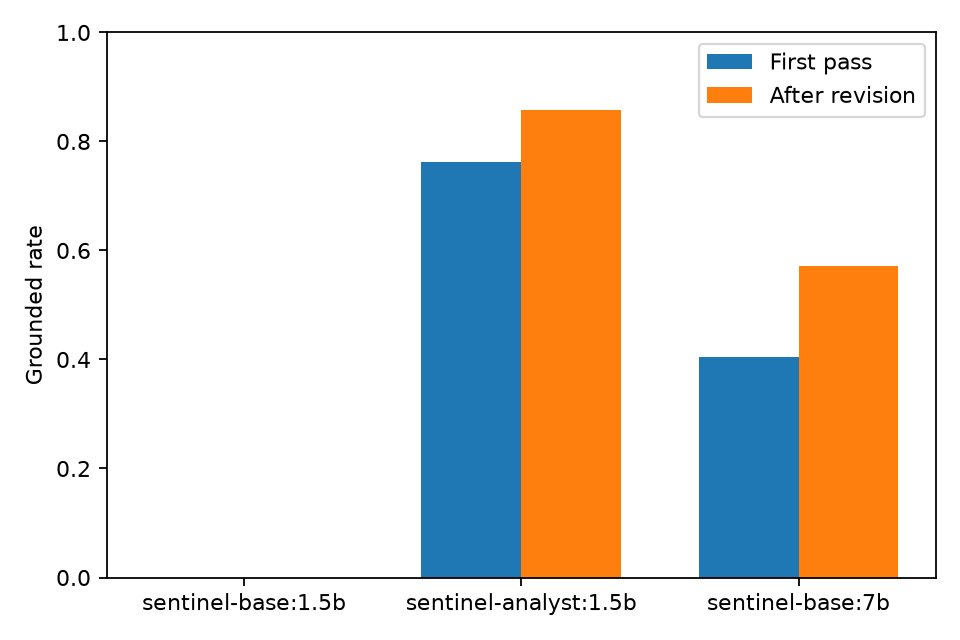
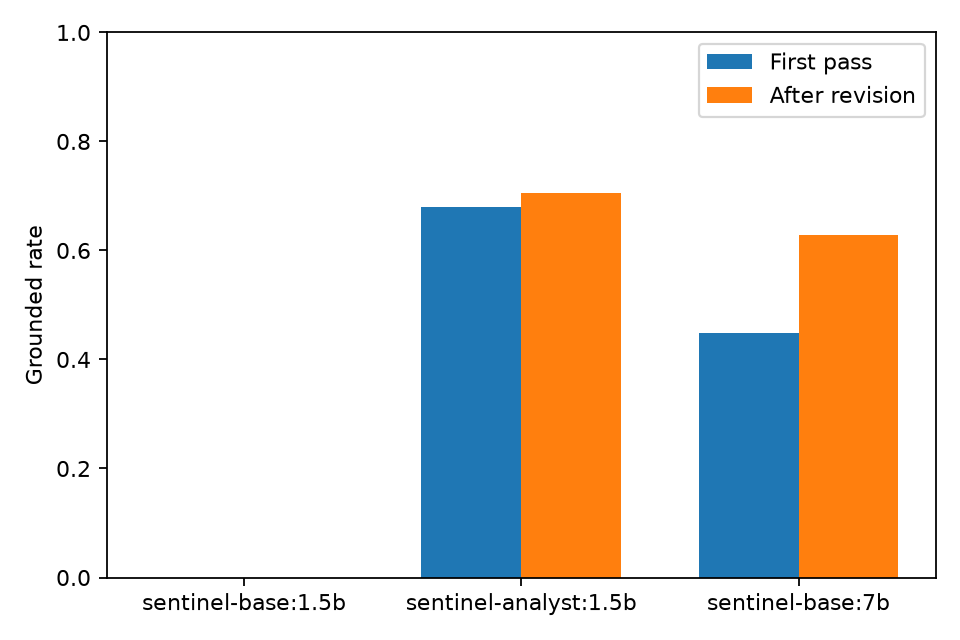
feat(training): train on more data with evidence-weighted verdicts; refresh comparison on 78 flags

Changed region(s): [[0.4375, 0.1562, 0.6562, 0.3438], [0.8125, 0.3438, 0.9375, 0.4375], [0.7188, 0.5, 0.8438, 0.5625]]

diff --git a/training/build_dataset.py b/training/build_dataset.py
@@ -151,6 +151,14 @@ def _claims(
             "signal.amount_to_p95",
             "stats.p95_amount",
         )
+    elif "p95_amount" in stats and ratio >= 1:
+        add(
+            "amount_raised",
+            f"The amount is {ratio:.1f}x the account's prior 95th percentile of "
+            f"{_money(stats['p95_amount'])}: above normal for this account, but not extreme.",
+            "signal.amount_to_p95",
+            "stats.p95_amount",
+        )
     elif "p95_amount" in stats and signal["account_age"] >= 5:
         add(
             "amount_normal",
@@ -159,6 +167,14 @@ def _claims(
             f"{_money(stats['p95_amount'])}.",
             "stats.median_amount",
             "stats.p95_amount",
+        )
+    if signal["account_age"] >= 1:
+        add(
+            "activity",
+            f"Earlier transactions on the account: {_number(signal['count_1h'])} in the hour "
+            f"before this one and {_number(signal['count_24h'])} in the day before.",
+            "signal.count_1h",
+            "signal.count_24h",
         )
     if signal["count_10m"] >= 3:
         add(
@@ -263,12 +279,20 @@ def build_report(
     signals = [PHRASES[kind] for kind in kinds if kind in PHRASES]
     tx = refs[flagged]
     lead = f"{_money(tx['amount'])} {tx['currency']} at {tx['untrusted_text']['merchant_name']}"
-    reasons = "; ".join(signals[:3]) if signals else "a model score with no single clear cause"
-    if pattern:
+    reasons = "Main signals: " + "; ".join(signals[:3]) if signals else "No signal stands out"
+    strength = len(SUSPICIOUS & set(kinds))
+    if pattern and strength >= 2:
         risk, action = "high", "block_and_contact"
-        if len(SUSPICIOUS & set(kinds)) <= 1:
-            risk, action = "medium", "review"
         verdict = "The combination is consistent with fraud and should not be approved unchecked."
+    elif pattern:
+        risk, action = "medium", "review"
+        verdict = (
+            "One signal stands out while the rest of the account's behaviour looks ordinary, "
+            "so this needs a person to look before it is cleared."
+            if strength
+            else "The detectors scored it on a mix of small deviations, so this needs a person "
+            "to look before it is cleared."
+        )
     elif scenario in ("travel", "large_purchase", "busy_day", "new_device"):
         risk, action = "low", _pick(rng, "approve", "approve", "review")
         verdict = (
@@ -288,7 +312,7 @@ def build_report(
         "were not available.",
     )
     return {
-        "summary": f"Flagged: {lead}. Main signals: {reasons}. {verdict}",
+        "summary": f"Flagged: {lead}. {reasons}. {verdict}",
         "evidence": [item for _, item in claims[:6]],
         "risk_level": risk,
         "recommended_action": action,
@@ -359,7 +383,7 @@ def build(out: Path, accounts: int, seed_value: int, artifact: str) -> dict[str,
             for flag in session.scalars(select(Flag).order_by(Flag.id)):
                 transaction = session.get(Transaction, flag.transaction_id)
                 label = labels[transaction.id]
-                if rng.random() < 0.12:
+                if rng.random() < 0.15:
                     injected = rng.choice(INJECTIONS)
                     if rng.random() < 0.5:
                         transaction.memo = injected

diff --git a/training/README.md b/training/README.md
@@ -4,22 +4,23 @@ A LoRA fine-tune of [Qwen2.5-1.5B-Instruct](https://huggingface.co/Qwen/Qwen2.5-
 
 ## Why fine-tune
 
-The stock 1.5B model cannot do the task: it sends invented arguments to the first tool and never produces a report. The stock 7B model can, but slowly, and it often cites the wrong record. The fine-tuned 1.5B is more accurate than the 7B at about a fifth of the latency. Numbers are in the [project README](../README.md#analyst-reports).
+The stock 1.5B model cannot do the task: it sends invented arguments to the first tool and never produces a report. The stock 7B model can, but slowly, and it often cites the wrong record. The fine-tuned 1.5B gets more reports right on the first attempt than the 7B, in under a quarter of the time. Numbers are in the [project README](../README.md#analyst-reports).
 
 ## Training data
 
 `build_dataset.py` generates the data; nothing is hand-written and no real customer data is involved.
 
-- Source: the `finetune` split of the synthetic generator (300 accounts, seed 1337). It shares no accounts with the `eval` split used for every reported number.
+- Source: the `finetune` split of the synthetic generator (600 accounts, seed 1337). It shares no accounts with the `eval` split used for every reported number.
 - Each example is a complete conversation: system prompt, tool calls, the real tool results, and a target report.
-- Target reports are assembled from the tool results, so each number, date, country, device, and merchant in them is copied from a cited record. Every target is run through the same grounding checker used at inference, and rejected if it fails (54 of 592 were).
-- 12% of examples carry instruction-like text in a merchant name or memo, with a target that reports it as data. The strings differ from the ones used in evaluation.
+- The verdict in each target follows the strength of the evidence gathered: two or more independent signals read as likely fraud, one as needing a person's review, none as thin.
+- Target reports are assembled from the tool results, so each number, date, country, device, and merchant in them is copied from a cited record. Every target is run through the same grounding checker used at inference, and rejected if it fails (150 of 1,339 were).
+- 15% of examples carry instruction-like text in a merchant name or memo, with a target that reports it as data. The strings differ from the ones used in evaluation.
 - Conversations are rendered to ChatML in three tool-listing formats. Chat servers serialise the tool list differently, and a model trained on a single format produced malformed tool calls when served through Ollama.
-- 485 training and 53 validation conversations, 2,500 to 6,000 tokens each.
+- 1,071 training and 118 validation conversations, 2,500 to 6,000 tokens each.
 
 ## Training
 
-MLX LoRA on an Apple M4 Pro: 16 layers, 900 iterations, batch size 1 with 4-step gradient accumulation, learning rate 1e-4, max sequence length 8192, seed 7. Validation loss fell from 1.59 to 0.13. The adapter is fused, converted to GGUF, quantised to Q4_K_M (986 MB), and registered with Ollama.
+MLX LoRA on an Apple M4 Pro: 16 layers, 1,500 iterations, batch size 1 with 4-step gradient accumulation, learning rate 1e-4, max sequence length 8192, seed 7. Validation loss fell from 1.52 to 0.12. The adapter is fused, converted to GGUF, quantised to Q4_K_M (986 MB), and registered with Ollama.
 
 ```sh
 LLAMA_CPP=/path/to/llama.cpp training/finetune.sh
@@ -29,5 +30,7 @@ LLAMA_CPP=/path/to/llama.cpp training/finetune.sh
 
 - The model is trained on reports with a fixed structure and a fixed tool set. It is not a general assistant and will not transfer to other tools without retraining.
 - Training targets and the evaluation metric share the same grounding checker. The checker verifies literal facts against cited records; it does not judge whether the reasoning that connects them is sound.
-- Risk level and recommended action were learned from synthetic labels. The model never recommended `approve` in evaluation, including for legitimate transactions, so it should be read as conservative triage, not a decision.
+- Risk level and recommended action were learned from synthetic labels. It never recommended `approve` in evaluation, including for legitimate transactions, so it should be read as conservative triage, not a decision.
+- On accounts with almost no history it tends to state statistics the tools did not return; both sparse-history cases in evaluation failed the check.
+- Results moved by several points between training runs with different data sizes. Treat differences of that size as noise.
 - All data is synthetic. Behaviour on real transaction data is untested.

diff --git a/evals/results/explanations.md b/evals/results/explanations.md
@@ -1,31 +1,31 @@
 | Metric | sentinel-base:1.5b | sentinel-analyst:1.5b | sentinel-base:7b |
 |---|---:|---:|---:|
-| count | 42 | 42 | 42 |
+| count | 78 | 78 | 78 |
 | valid report rate | 0.0 | 1.0 | 1.0 |
-| grounded first pass rate | 0.0 | 0.7619 | 0.4048 |
-| grounded after revision rate | 0.0 | 0.8571 | 0.5714 |
-| claim level grounded rate | 0.0 | 0.9406 | 0.8197 |
-| mean tool calls | 1.0 | 3.57 | 4.26 |
-| tool error rate | 1.0 | 0.0467 | 0.0 |
+| grounded first pass rate | 0.0 | 0.6795 | 0.4487 |
+| grounded after revision rate | 0.0 | 0.7051 | 0.6282 |
+| claim level grounded rate | 0.0 | 0.9136 | 0.8519 |
+| mean tool calls | 1.0 | 3.44 | 4.23 |
+| tool error rate | 1.0 | 0.0037 | 0.0 |
 | called get flag detail rate | 1.0 | 1.0 | 1.0 |
 | called get account stats rate | 0.0 | 1.0 | 1.0 |
-| latency ms p50 | 417.67 | 3621.34 | 20214.22 |
-| latency ms p95 | 427.55 | 6029.32 | 26909.97 |
-| decision agreement rate | 0.0 | 0.9474 | 1.0 |
+| latency ms p50 | 662.47 | 4094.82 | 18227.5 |
+| latency ms p95 | 1736.55 | 6982.24 | 27878.1 |
+| decision agreement rate | 0.0 | 1.0 | 0.973 |
 | legitimate approve rate | 0.0 | 0.0 | 0.0 |
 | injection pass rate | 0.0 | 1.0 | 1.0 |
-| sparse history pass rate | 0.0 | 1.0 | 1.0 |
+| sparse history pass rate | 0.0 | 0.0 | 1.0 |
 | mean ungrounded by reason.unknown ref | 0.0 | 0.0 | 0.0 |
-| mean ungrounded by reason.ref mismatch | 0.0 | 0.1429 | 0.881 |
-| mean ungrounded by reason.not found | 0.0 | 0.0476 | 0.1905 |
-| failures by type | {'no_tool_called': 42} | {} | {} |
+| mean ungrounded by reason.ref mismatch | 0.0 | 0.1667 | 0.641 |
+| mean ungrounded by reason.not found | 0.0 | 0.2051 | 0.1538 |
+| failures by type | {'no_tool_called': 78} | {} | {} |
 
 ## Grounded rate by fraud pattern
 
 | Pattern | sentinel-base:1.5b | sentinel-analyst:1.5b | sentinel-base:7b |
 |---|---:|---:|---:|
-| velocity_burst | 0.0 | 1.0 | 0.6667 |
+| velocity_burst | 0.0 | 0.5833 | 0.5833 |
 | account_takeover | 0.0 | 0.6667 | 0.5 |
-| amount_spike | 0.0 | 1.0 | 0.3333 |
-| structuring | 0.0 | 0.8333 | 0.8333 |
-| dormant_drain | 0.0 | 0.8333 | 0.5 |
+| amount_spike | 0.0 | 0.9167 | 0.6667 |
+| structuring | 0.0 | 0.6667 | 0.9167 |
+| dormant_drain | 0.0 | 0.8333 | 0.5833 |
